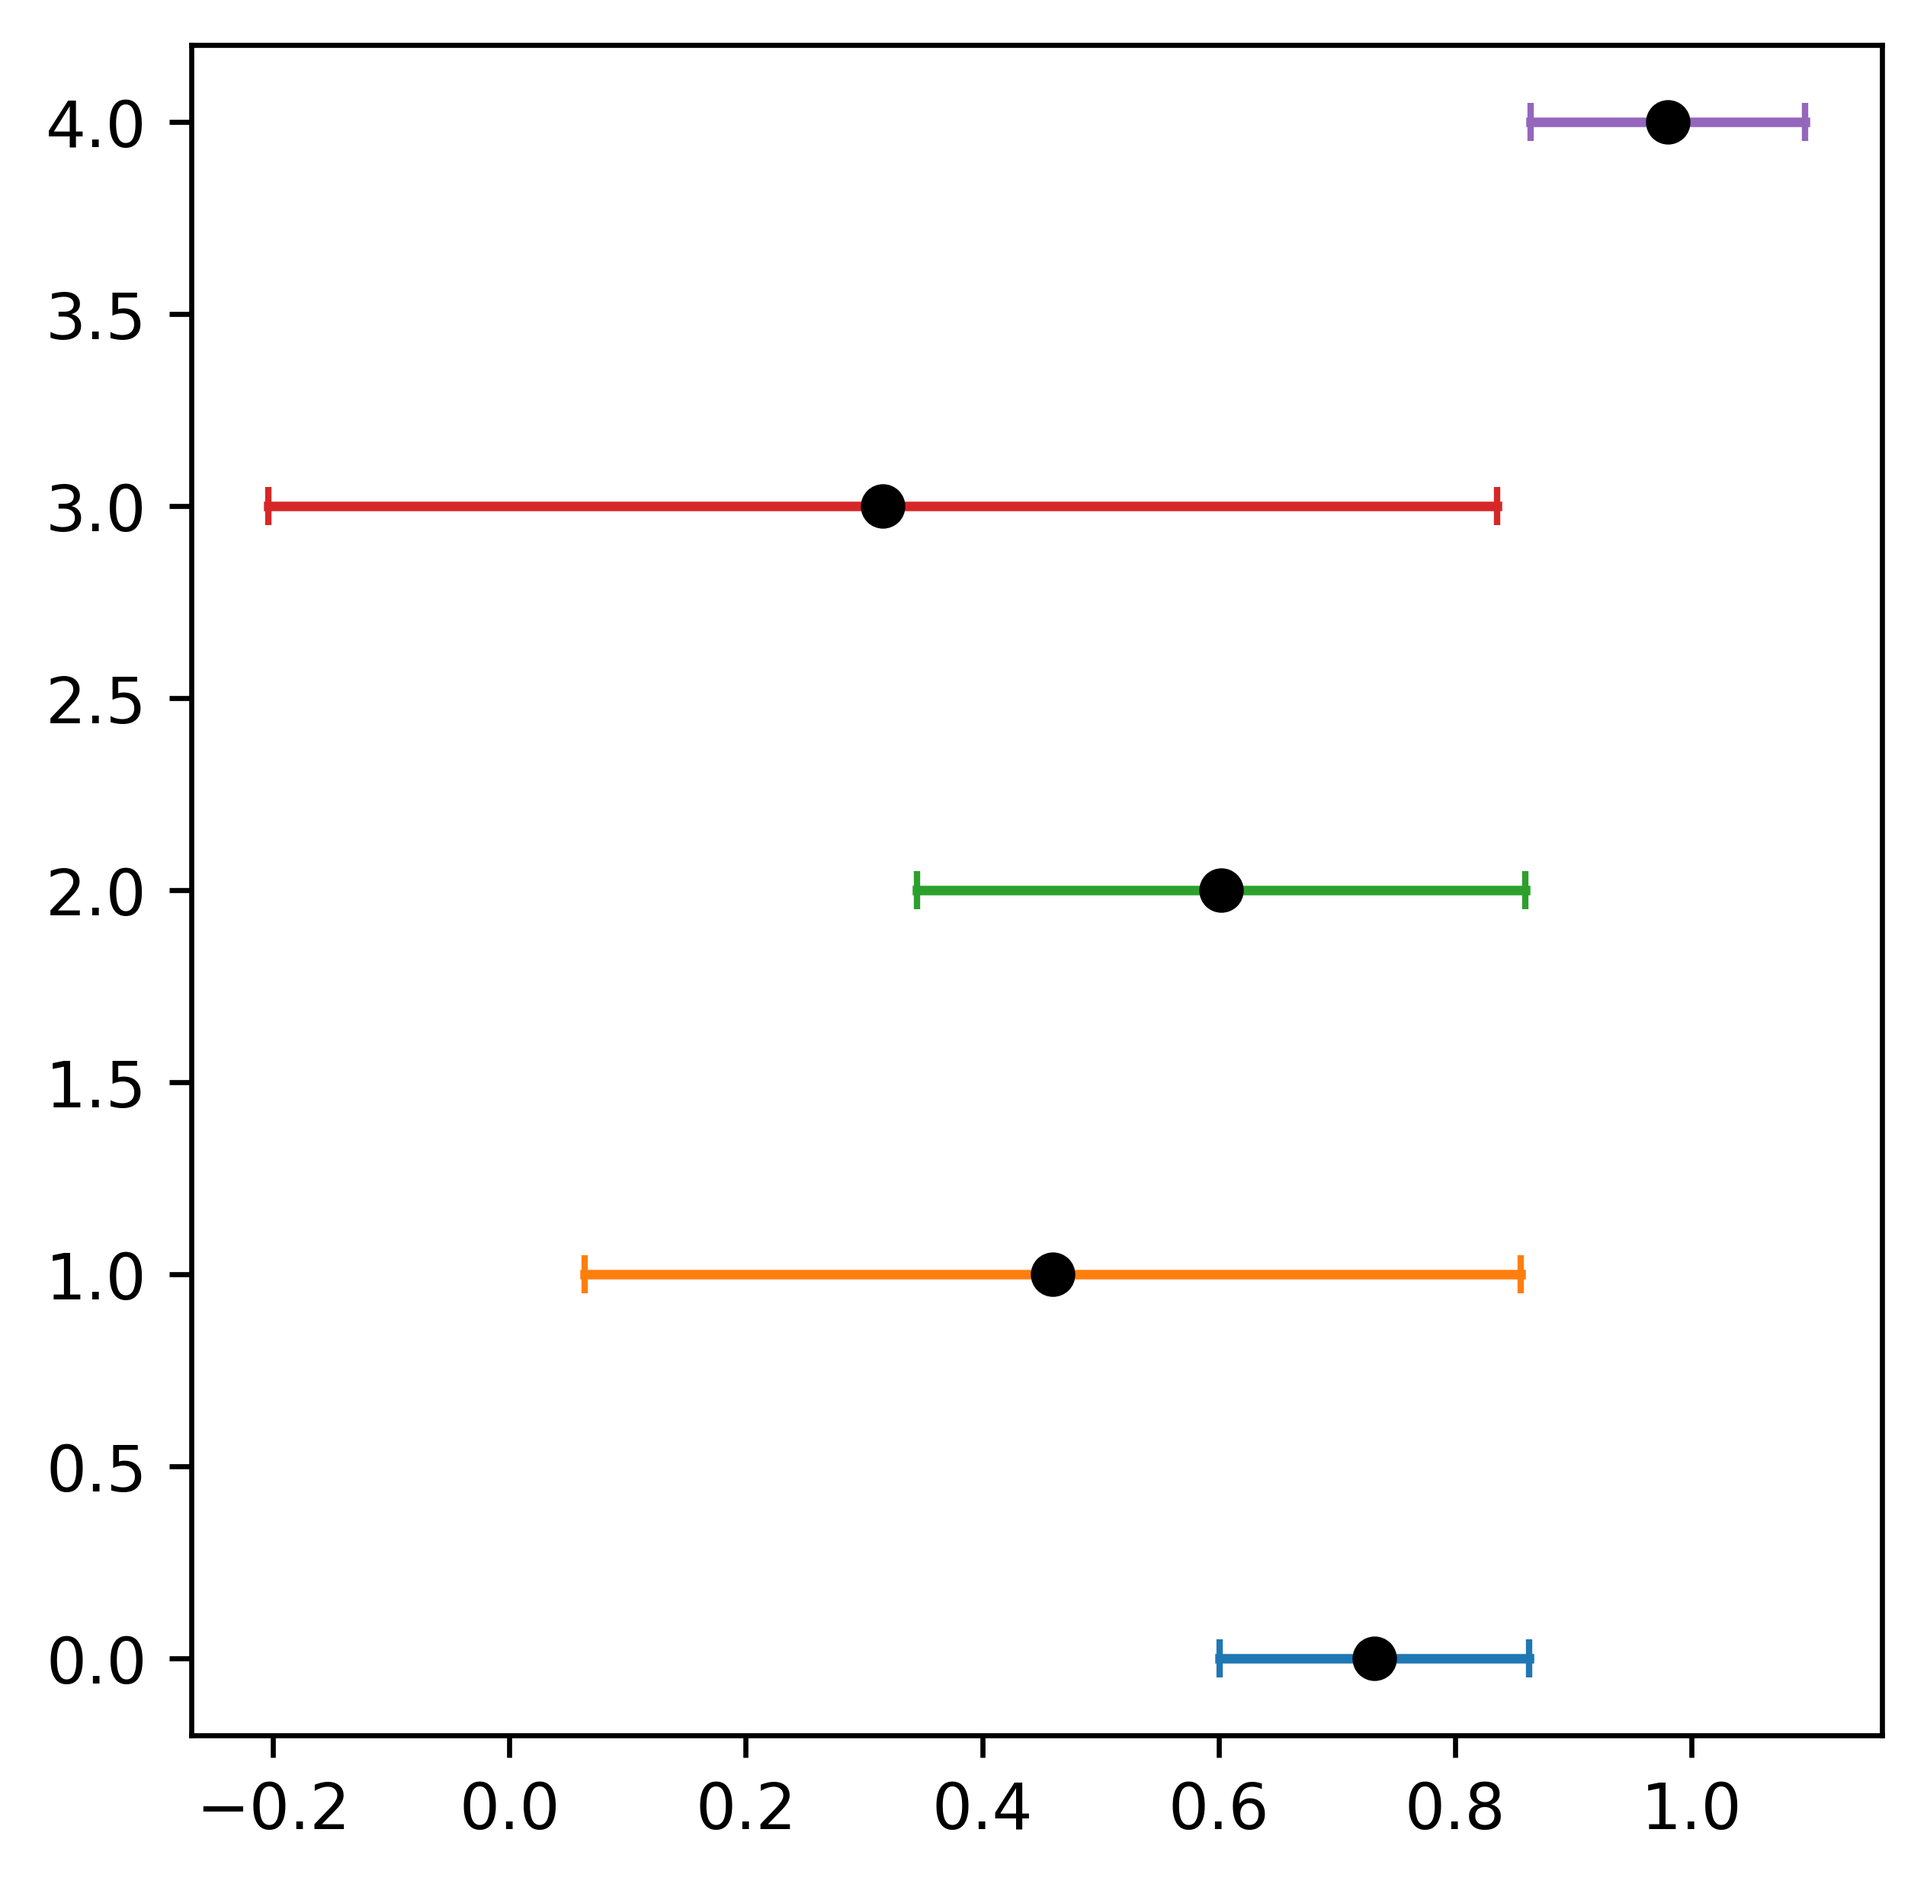
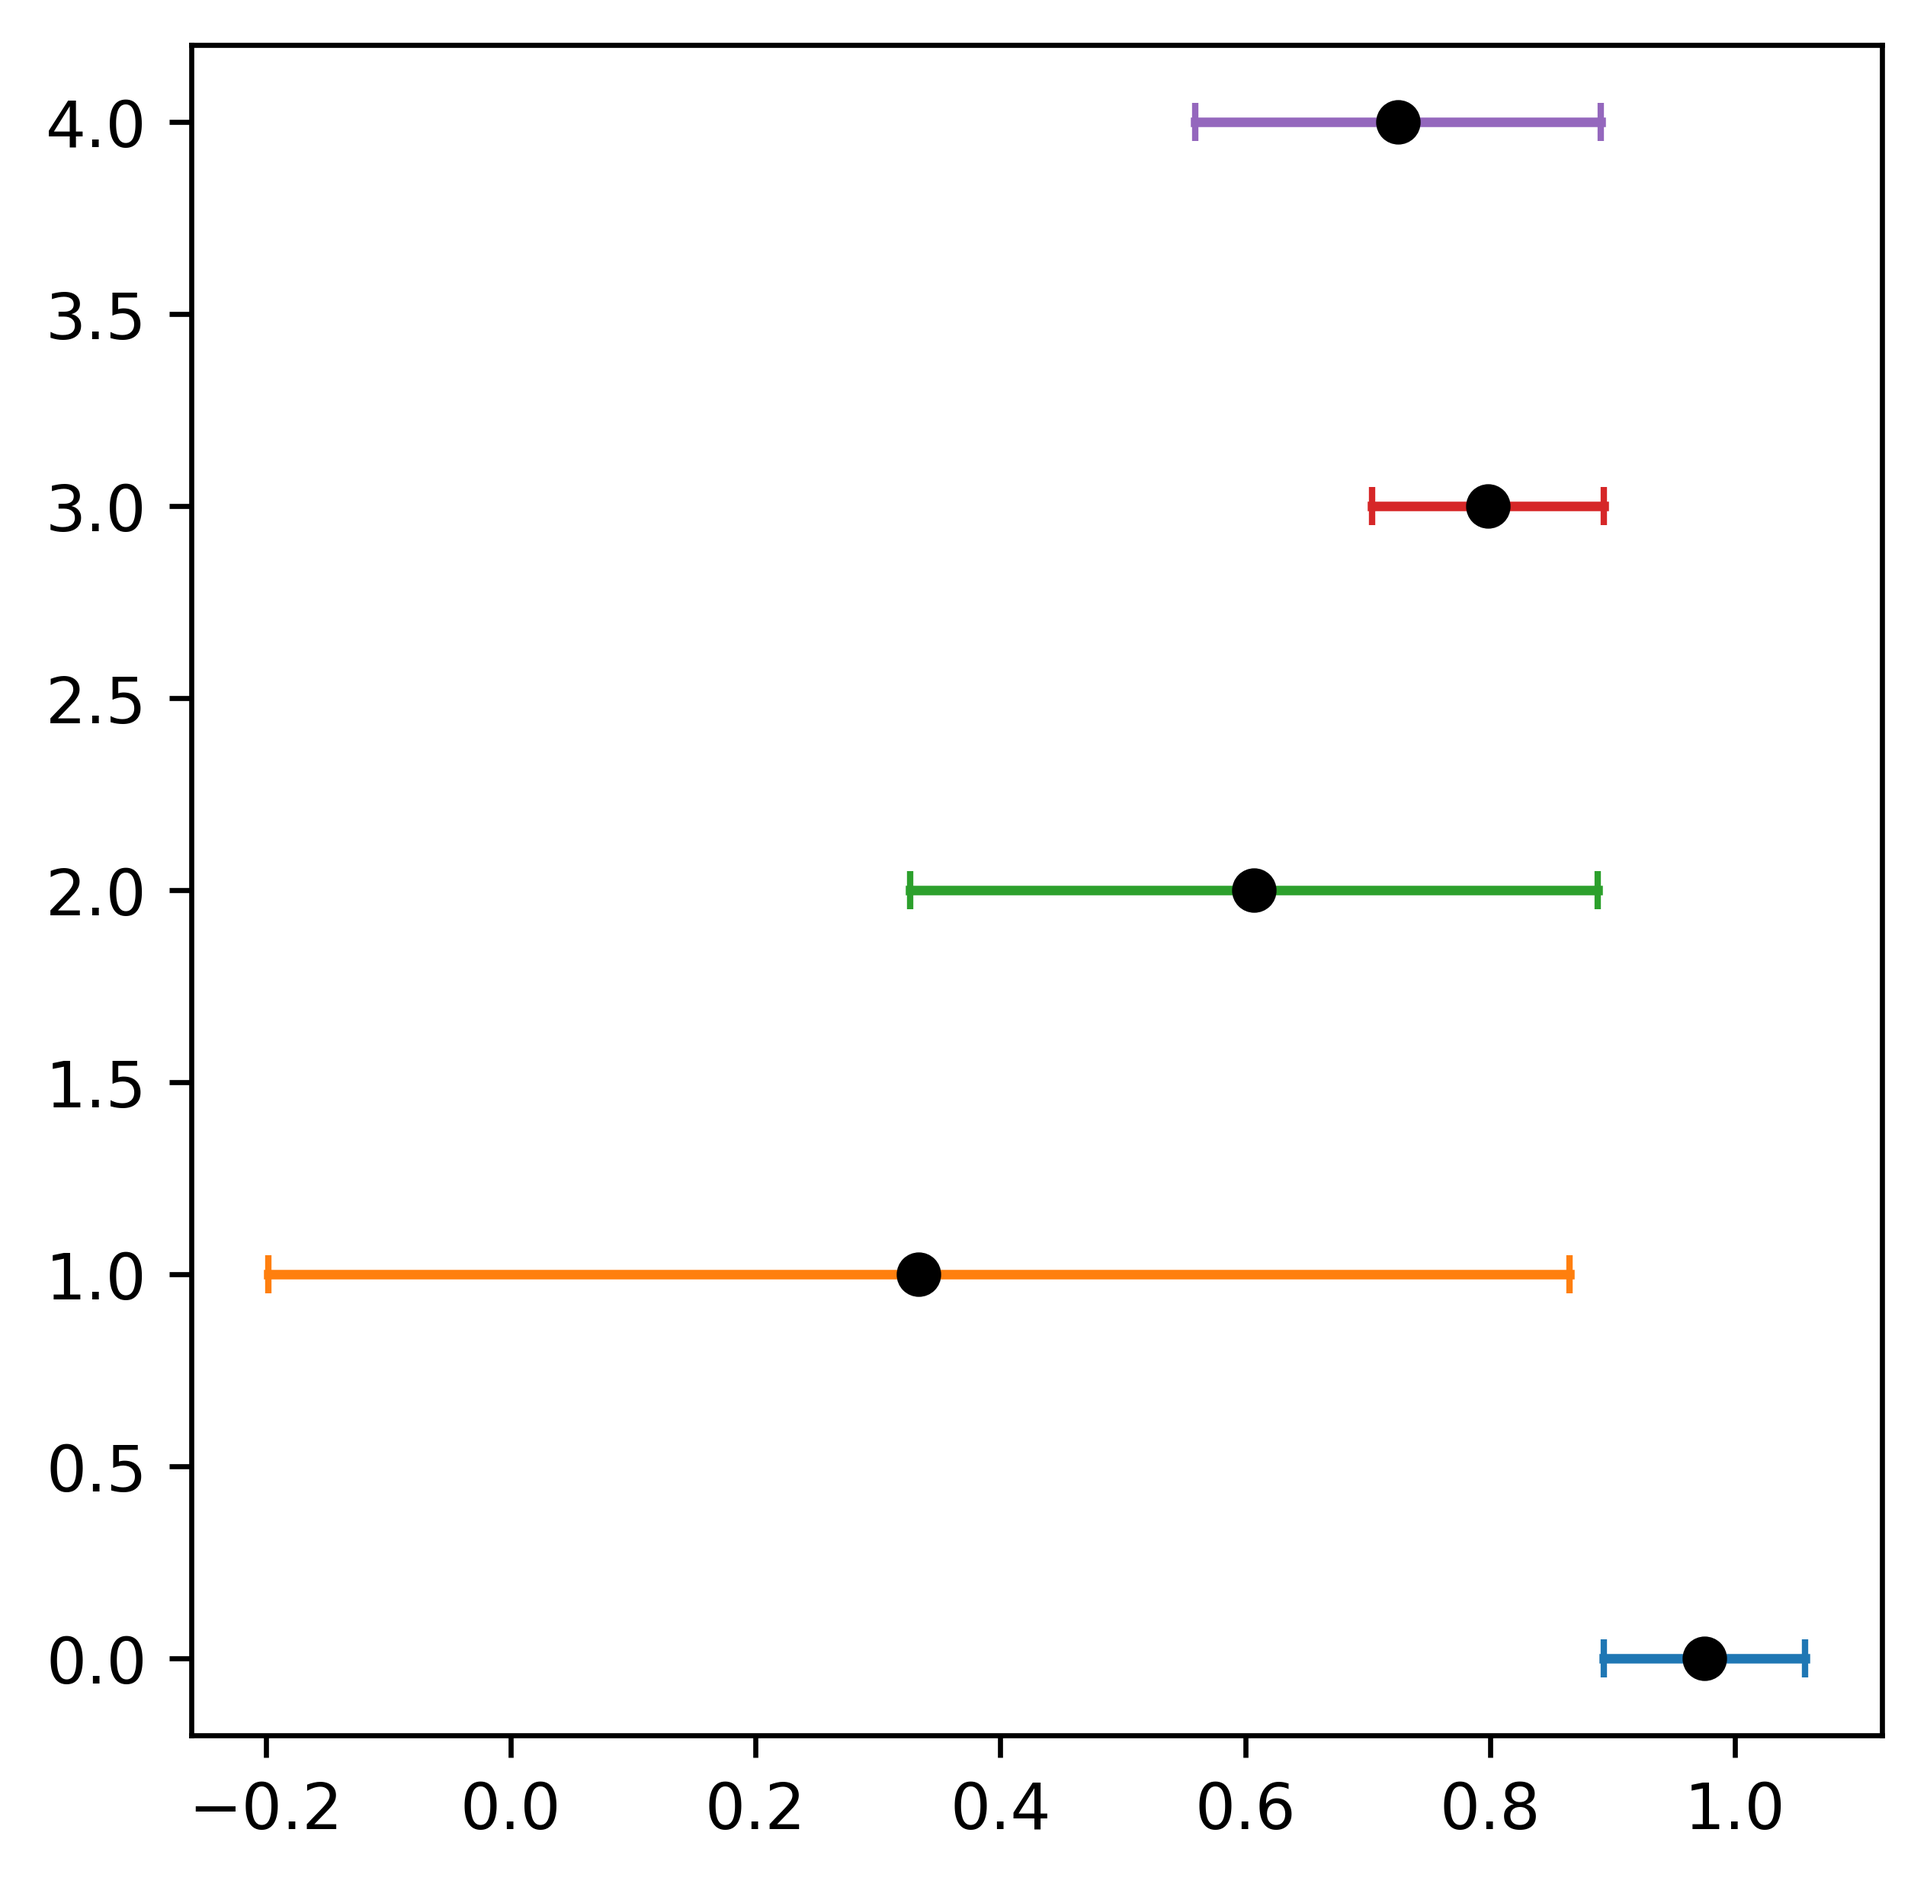
a1 or a2.py

diff --git a/a1_or_a2.py b/a1_or_a2.py
@@ -3,10 +3,9 @@ import matplotlib.pyplot as plt
 import function as f
 import random 
 
-def a1_or_a2():
+def a1_or_a2(K = 5,distribution = f.make_distribution(5),save_fig = True):
     #定数
-    K = 5 ; distribution = f.make_distribution(K) 
-    count = 0
+    count = K
 
     #使うリスト
     #LCB UCB周り
@@ -20,8 +19,8 @@ def a1_or_a2():
     while max(LCB)<max(UCB_others):
         a1 = random.choice(f.max_idx(each_average))
         a2 = random.choice(f.max_idx(UCB,a1))
-        if each_attempt[a1] >=each_attempt[a2]: ai =a2
-        else: ai =a1
+        if each_attempt[a1] >=each_attempt[a2]: ai = a2
+        else: ai = a1
 
         each_attempt[ai] += 1
         each_result[ai] += np.random.binomial(1,distribution[ai])
@@ -38,19 +37,15 @@ def a1_or_a2():
         UCB[i] = f.UCBi(each_attempt,each_result,i)
         LCB[i] = f.LCBi(each_attempt,each_result,i)
 
-    fig,ax = plt.subplots()
-    for i in range(K):
-        ax.plot([UCB[i],LCB[i]],[i,i],marker = "|")
-        ax.plot(each_average[i],i,marker = "o",color = "black")
-    ax.set_box_aspect(1)
-    plt.savefig(f"graphs/graph(a1_or_a2).png",dpi = 600, bbox_inches="tight")
-    print(count)
-    print(UCB)
-    print(LCB)
-    print(each_average)
-    print(distribution)
-    print(each_attempt)
-    plt.show()
+    if save_fig:
+        fig,ax = plt.subplots()
+        for i in range(K):
+            ax.plot([UCB[i],LCB[i]],[i,i],marker = "|")
+            ax.plot(each_average[i],i,marker = "o",color = "black")
+        ax.set_box_aspect(1)
+        plt.savefig(f"graphs/graph(a1_or_a2).png",dpi = 600, bbox_inches="tight")
+    return count
+    
 
 if __name__ == "__main__":
     a1_or_a2()

diff --git a/a1_and_a2.py b/a1_and_a2.py
@@ -3,10 +3,9 @@ import matplotlib.pyplot as plt
 import function as f
 import random 
 
-def a1_and_a2():
+def a1_and_a2(K = 5,distribution = f.make_distribution(5),save_fig = True):
     #定数
-    K = 5 ; distribution = f.make_distribution(K) 
-    count = 0
+    count = K
 
     #使うリスト
     #LCB UCB周り
@@ -31,17 +30,20 @@ def a1_and_a2():
         idx = LCB.index(max(LCB)) ; UCB_others = UCB.copy()
         UCB_others[idx] = 0
         each_average = [each_result[i]/each_attempt[i] for i in range(K)]
-        count += 1
-
-    fig,ax = plt.subplots()
+        count += 2
     for i in range(K):
-        ax.plot([UCB[i],LCB[i]],[i,i],marker = "|")
-        ax.plot(each_average[i],i,marker = "o",color = "black")
-    ax.set_box_aspect(1)
-    plt.savefig(f"graphs/graph(a1_and_a2).png",dpi = 600, bbox_inches="tight")
-    plt.show()
+        UCB[i] = f.UCBi(each_attempt,each_result,i)
+        LCB[i] = f.LCBi(each_attempt,each_result,i)
 
+    if save_fig:
+        fig,ax = plt.subplots()
+        for i in range(K):
+            ax.plot([UCB[i],LCB[i]],[i,i],marker = "|")
+            ax.plot(each_average[i],i,marker = "o",color = "black")
+        ax.set_box_aspect(1)
+        plt.savefig(f"graphs/graph(a1_and_a2).png",dpi = 600, bbox_inches="tight")
 
+    return count
 
 if __name__ == "__main__":
     a1_and_a2()

diff --git a/function.py b/function.py
@@ -11,7 +11,9 @@ def LCBi(each_attempt,each_result,i):
     k = 2 ; d = 0.05 
     return each_result[i]/each_attempt[i] - np.sqrt(0.5*np.log(2*k*each_attempt[i]**2/d)/each_attempt[i])
 
-def max_idx(list,a1 = None):
-    if a1 is not None:
-        list[a1] = 0
-    return [i for i in range(len(list)) if max(list)==list[i]]
+def max_idx(values, exclude=None):
+    candidates = values.copy()
+    if exclude is not None:
+        candidates[exclude] = -float("inf")
+    m = max(candidates)
+    return [i for i, v in enumerate(candidates) if v == m]
